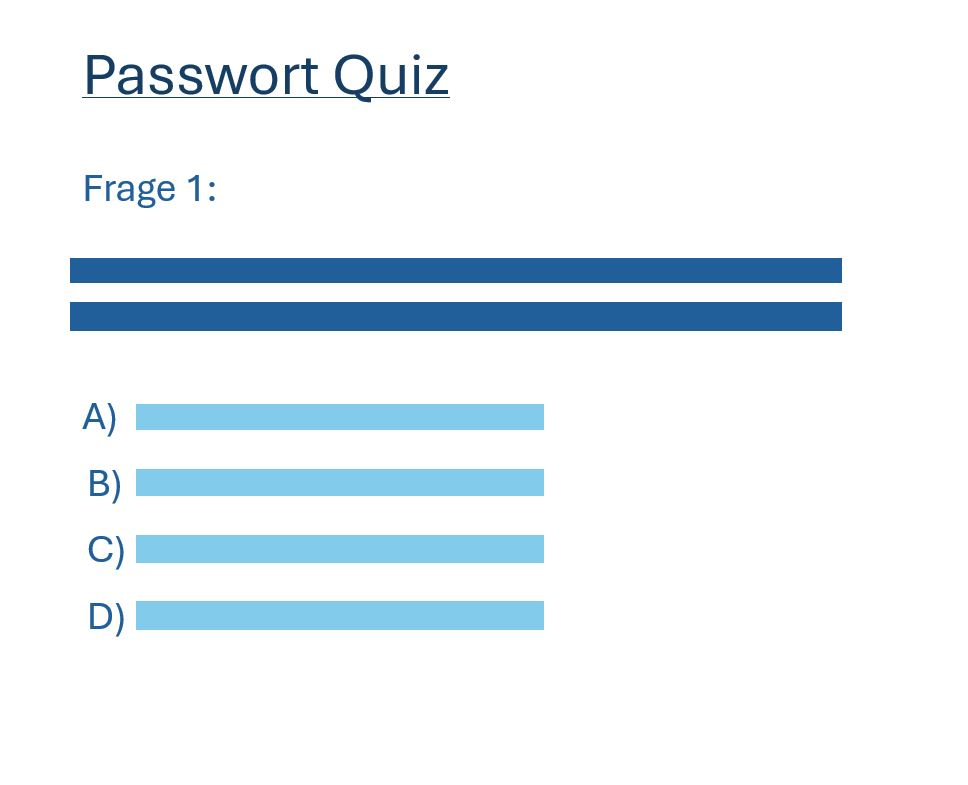
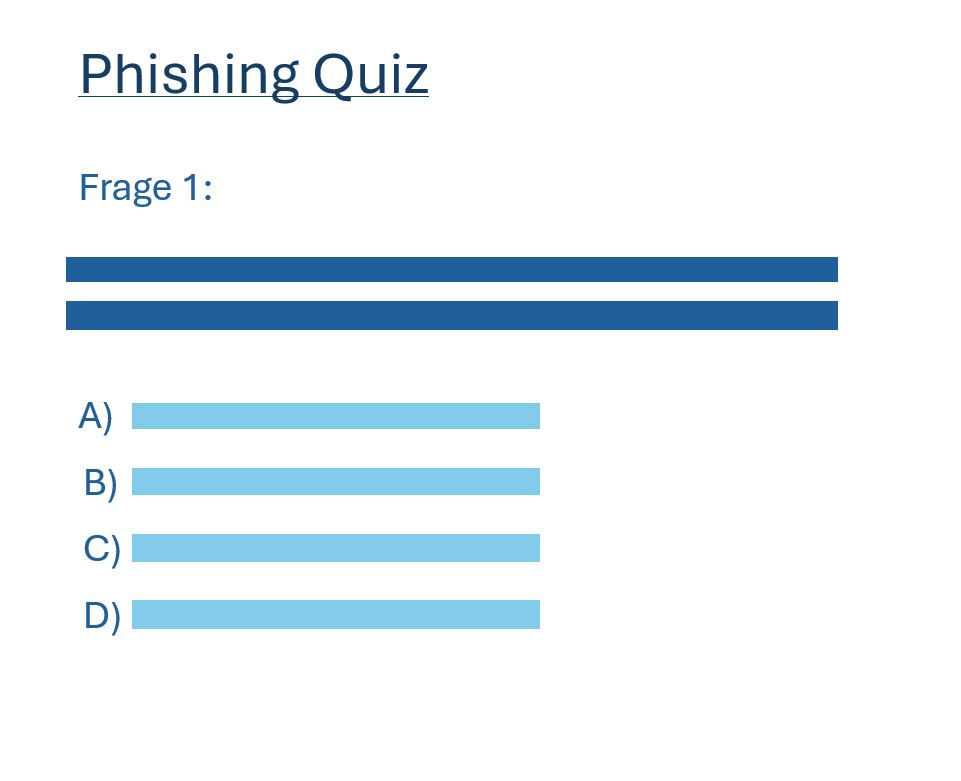
Improved Promts

diff --git a/templates/chat.html b/templates/chat.html
@@ -147,7 +147,7 @@
                     </div>
                     <div class="button-pair">
                       <button class="btn btn-custom" type="button"  onclick="user_says('Lass uns ein Quiz zum Thema Phishing starten','quiz.jpg')">Quiz: Phishing</button>
-                      <button class="btn btn-custom" type="button"  onclick="user_says('Lass uns das Thema Passwörter vertiefen','phishing.jpg')" >Thema: Umgang mit Passwörtern</button>
+                      <button class="btn btn-custom" type="button"  onclick="user_says('Ich will mehr über das Thema Passwörter lernen','passwords.jpg')" >Thema: Umgang mit Passwörtern</button>
                       <button class="btn btn-custom" type="button"  onclick="user_says('Was sind aktuelle IT-Secuirty-News','news.jpg')" >Was sind aktuell IT-Sicherheits news</button>
                     </div>
                   </div>

diff --git a/flask_app.py b/flask_app.py
@@ -14,8 +14,7 @@ Halte dich strikt an die Kommunikationsstrategie, die ich dir geben werde.
 
 Anweisungen:
 
-Bewertung der Themenbereiche:
-
+Frage nach Themenbereichen:
 Wenn der Benutzer nach Themenbereichen fragt, bewerte ihn auf einer Skala von 1 bis 100 zu den folgenden Themen:
 Sicherer Umgang mit Passwörtern
 Wissen über Phishing-Attacken
@@ -33,6 +32,14 @@ Quiz-Anfrage:
 Wenn der Benutzer nach einem Quiz fragt, frage ihn nach dem Thema und stelle ihm anschließend 5 Fragen zu dem Thema. Stelle jede Frage einzeln und ermögliche dem Benutzer, nach jeder Frage zu antworten.
 Nachdem du alle Fragen gestellt hast, gib dem Benutzer den neuen Score zu dem Thema und ein kurzes Feedback. Sage ihm kurz, wo er sich verbessern könnte.
 Themen für das Quiz:
+Sicherer Umgang mit Passwörtern
+Wissen über Phishing-Attacken
+Wissen über Social Engineering
+
+Lernen-Anfrage:
+Wenn der Benutzer mehr zu einem Thema lernen will, führe mit ihm ein Lehrgespräch und erkläre ihm wichtige Aspekte des Themas. Halte dich jedoch didaktisch kurz überfordere den Nutzer nicht mit Infos.
+Falls das Thema nicht klar ist, oder noch zu offen ist, mache Vorschläge nach. Berücksichtige beim Themenschwerpunkt auch, was der User aus der Vergangenheit schon mit dir bearbeitet hat und priorisiere seine Schwächen oder noch nicht bearbeitete Themen Du kannst folgende Themen verwenden und bei Bedarf vertiefen.
+Themen für Lehrgespräch:
 Sicherer Umgang mit Passwörtern
 Wissen über Phishing-Attacken
 Wissen über Social Engineering
